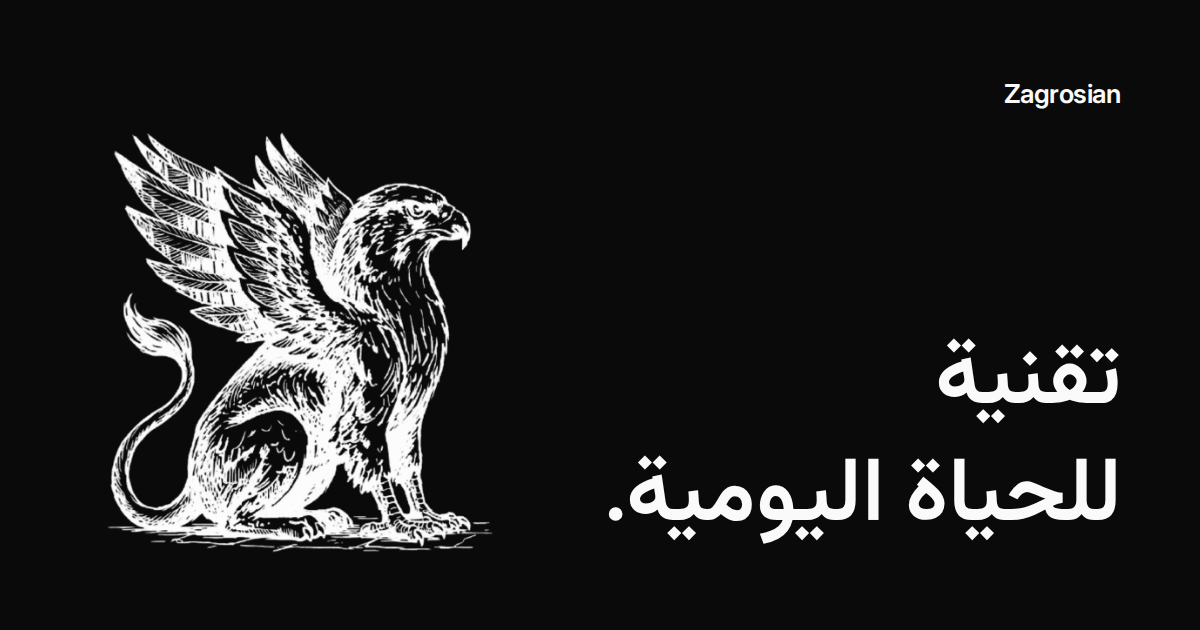
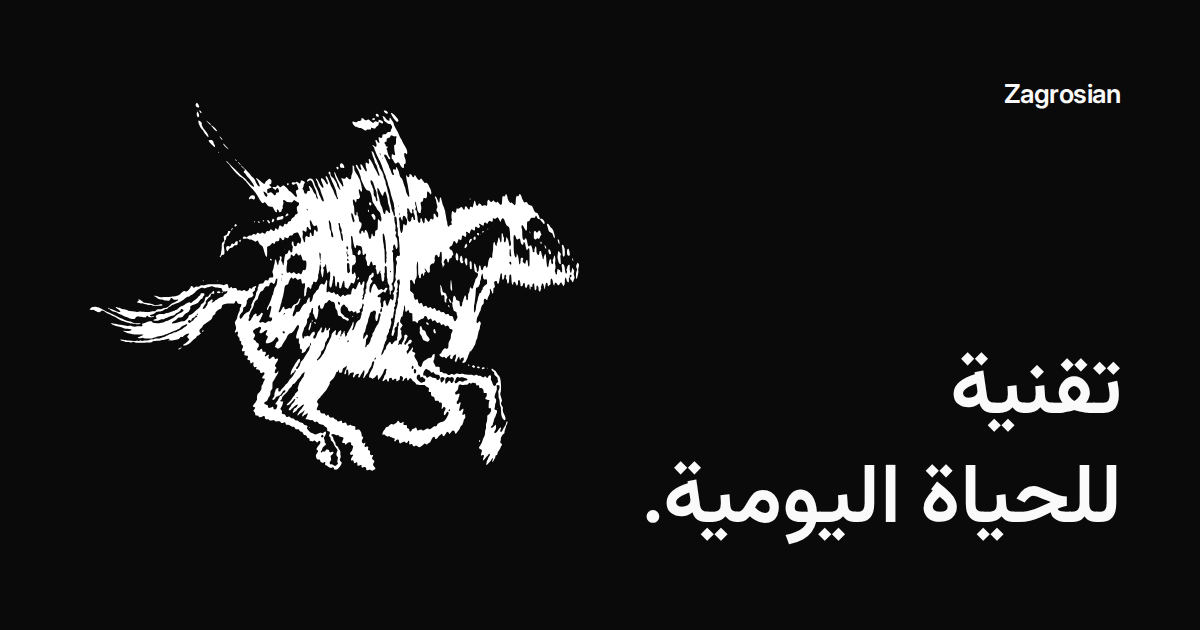
Replace the griffin with the new horseman emblem
The new Zagrosian logo (Zagros_Logo.png, a horseman on a galloping horse
drawn as a woodcut) replaces the griffin everywhere. The source moves to
src/assets/brand/zagros-logo-source.png.

- The source is 574 × 435 px, too small to stay sharp on large or
  high-density screens, so the site uses vectors traced from it:
  emblem.svg, the detailed drawing, and emblem-mark.svg, a simplified
  silhouette that stays legible at 16–48 px.
- Header: the silhouette, inlined and drawn in the text colour, so it
  follows the light and dark themes exactly.
- Hero: the detailed drawing, which now rides in on load, revealed from
  the tail forwards (still with the scroll parallax and pointer depth).
- Favicons (new favicon.svg, favicon.ico, favicon-96.png) use the
  silhouette; the app icons, the Google logo (logo.png) and the social
  images in all nine languages use the detailed drawing.
- The emblem's description for screen readers is updated in all nine
  languages; the griffin component and images are removed.

Verified: axe with no violations across 180 page checks, no overflow or
broken words from 320 to 1920 px, header fits at 12 widths in every
language, no CSP violations, Lighthouse 98 to 100.

Claude-Session: https://claude.ai/code/session_01KBBHZvrbeW3Uqd7RrncA8Y

diff --git a/src/scripts/motion.ts b/src/scripts/motion.ts
@@ -227,14 +227,14 @@ function contentsTracker(content: HTMLElement, links: HTMLAnchorElement[]): Scro
 }
 
 /* -------------------------------------------------------------------------- */
-/* Pointer depth: with a mouse, the hero griffin leans slightly towards the    */
+/* Pointer depth: with a mouse, the hero horseman leans slightly towards the  */
 /* pointer, and the Hevalo icon tilts under it with a soft highlight.          */
 /* -------------------------------------------------------------------------- */
 
 function initPointerDepth() {
   if (!window.matchMedia('(hover: hover) and (pointer: fine)').matches) return;
 
-  // The griffin follows the pointer across the whole window, eased towards it
+  // The horseman follows the pointer across the whole window, eased towards it
   // frame by frame. It uses the individual `rotate` and `translate` properties,
   // so it combines with the scroll parallax on `transform`.
   const emblem = document.querySelector<HTMLElement>('[data-depth]');

diff --git a/src/i18n/messages/ckb.ts b/src/i18n/messages/ckb.ts
@@ -50,7 +50,7 @@ export const ckb: Messages = {
     lead: 'Zagrosian کۆمپانیایەکی سەربەخۆی تەکنەلۆژییە و بارەگاکەی لە هۆڵەندایە. ئێمە بەرهەمی دیجیتاڵی بۆ بەکارهێنەران دیزاین و دروست دەکەین، کە یەکەمیان Hevalo، ئەپێکی فێربوونی زمانی کوردییە.',
     products: 'بەرهەمەکانمان',
     about: 'دەربارەی Zagrosian',
-    griffinAlt: 'گریفۆنی Zagrosian',
+    emblemAlt: 'هێمای Zagrosian: سوارێک لەسەر ئەسپێک کە ڕادەکات',
   },
   hevalo: {
     eyebrow: 'بەرهەمەکان',

diff --git a/src/i18n/messages/ar.ts b/src/i18n/messages/ar.ts
@@ -48,7 +48,7 @@ export const ar: Messages = {
     lead: 'Zagrosian شركة تقنية مستقلة مقرّها هولندا. نصمّم ونطوّر منتجات رقمية للأفراد، أولها Hevalo، تطبيق لتعلّم اللغة الكردية.',
     products: 'منتجاتنا',
     about: 'عن Zagrosian',
-    griffinAlt: 'شعار الغريفين لشركة Zagrosian',
+    emblemAlt: 'شعار Zagrosian: فارس على حصان يعدو',
   },
   hevalo: {
     eyebrow: 'المنتجات',

diff --git a/src/i18n/messages/fr.ts b/src/i18n/messages/fr.ts
@@ -48,7 +48,7 @@ export const fr: Messages = {
     lead: 'Zagrosian est une entreprise technologique indépendante basée aux Pays-Bas. Nous concevons et développons des produits grand public, à commencer par Hevalo, une application pour apprendre le kurde.',
     products: 'Nos produits',
     about: 'À propos de Zagrosian',
-    griffinAlt: 'Le griffon de Zagrosian',
+    emblemAlt: 'L’emblème de Zagrosian : un cavalier sur un cheval au galop',
   },
   hevalo: {
     eyebrow: 'Produits',

diff --git a/src/i18n/messages/es.ts b/src/i18n/messages/es.ts
@@ -47,7 +47,7 @@ export const es: Messages = {
     lead: 'Zagrosian es una empresa tecnológica independiente con sede en los Países Bajos. Diseñamos y desarrollamos productos de consumo, empezando por Hevalo, una aplicación para aprender kurdo.',
     products: 'Nuestros productos',
     about: 'Sobre Zagrosian',
-    griffinAlt: 'El emblema del grifo de Zagrosian',
+    emblemAlt: 'El emblema de Zagrosian: un jinete sobre un caballo al galope',
   },
   hevalo: {
     eyebrow: 'Productos',

diff --git a/src/i18n/messages/de.ts b/src/i18n/messages/de.ts
@@ -47,7 +47,7 @@ export const de: Messages = {
     lead: 'Zagrosian ist ein unabhängiges Technologieunternehmen mit Sitz in den Niederlanden. Wir gestalten und entwickeln Produkte für Verbraucher – den Anfang macht Hevalo, eine App zum Kurdischlernen.',
     products: 'Unsere Produkte',
     about: 'Über Zagrosian',
-    griffinAlt: 'Der Greif von Zagrosian',
+    emblemAlt: 'Das Emblem von Zagrosian: ein Reiter auf einem galoppierenden Pferd',
   },
   hevalo: {
     eyebrow: 'Produkte',

diff --git a/src/i18n/messages/tr.ts b/src/i18n/messages/tr.ts
@@ -47,7 +47,7 @@ export const tr: Messages = {
     lead: 'Zagrosian, Hollanda merkezli bağımsız bir teknoloji şirketidir. Kürtçe öğrenme uygulaması Hevalo’dan başlayarak tüketicilere yönelik ürünler tasarlıyor ve geliştiriyoruz.',
     products: 'Ürünlerimiz',
     about: 'Zagrosian hakkında',
-    griffinAlt: 'Zagrosian’ın grifonu',
+    emblemAlt: 'Zagrosian amblemi: dörtnala koşan bir atın üzerindeki süvari',
   },
   hevalo: {
     eyebrow: 'Ürünler',

diff --git a/src/i18n/messages/ku.ts b/src/i18n/messages/ku.ts
@@ -49,7 +49,7 @@ export const ku: Messages = {
     lead: 'Zagrosian şirketeke teknolojiyê ya serbixwe ye û navenda wê li Holendayê ye. Em ji bo bikarhêneran berheman disêwirînin û çêdikin; ya yekem Hevalo ye, sepaneke ji bo fêrbûna kurdî.',
     products: 'Berhemên me',
     about: 'Derbarê Zagrosian de',
-    griffinAlt: 'Grîfona Zagrosian',
+    emblemAlt: 'Nîşana Zagrosian: siwarek li ser hespekî ku dibeze',
   },
   hevalo: {
     eyebrow: 'Berhem',

diff --git a/src/i18n/messages/nl.ts b/src/i18n/messages/nl.ts
@@ -47,7 +47,7 @@ export const nl: Messages = {
     lead: 'Zagrosian is een onafhankelijk technologiebedrijf uit Nederland. We ontwerpen en bouwen producten voor consumenten, te beginnen met Hevalo: een app om Koerdisch te leren.',
     products: 'Onze producten',
     about: 'Over Zagrosian',
-    griffinAlt: 'De griffioen van Zagrosian',
+    emblemAlt: 'Het embleem van Zagrosian: een ruiter op een galopperend paard',
   },
   hevalo: {
     eyebrow: 'Producten',

diff --git a/src/i18n/messages/en.ts b/src/i18n/messages/en.ts
@@ -55,7 +55,7 @@ export const en = {
     lead: 'Zagrosian is an independent technology company based in the Netherlands. We design and build consumer products, starting with Hevalo, an app for learning Kurdish.',
     products: 'Our products',
     about: 'About Zagrosian',
-    griffinAlt: 'The Zagrosian griffin',
+    emblemAlt: 'The Zagrosian emblem: a horseman on a galloping horse',
   },
   hevalo: {
     eyebrow: 'Products',

diff --git a/README.md b/README.md
@@ -65,7 +65,8 @@ Requires Node 22.12 or later.
 public/            Favicons, logo, social images (og.png and og/<language>.png), manifest,
                    robots.txt and Cloudflare _headers
 src/
-  assets/brand/    Griffin emblem, the 21-ray sun and the Hevalo app icon (sources and sized variants)
+  assets/brand/    The emblem (source PNG, detailed and simplified SVGs), the 21-ray sun and the Hevalo
+                   app icon
   assets/fonts/    Inter subset with the Turkish and Kurmanji letters Ğ ğ İ Ş ş
   components/      Header, Footer, Hero, ProductShowcase, Motto, About, Contact, CommandMenu,
                    LanguagePicker, LanguageSuggestion, ThemeToggle, ThemeSwitch, …
@@ -85,16 +86,26 @@ src/
 
 ## Brand assets
 
-- **Griffin** (`src/assets/brand/griffin-source.png`): the emblem, used in the header, the hero, the
-  Google logo (`public/logo.png`) and the social images (`public/og.png` in English and
-  `public/og/<language>.png`, which also show the hero headline in that language; update them if the
-  headline changes). The site serves it as
-  16-colour PNGs at 96–960 px wide (`griffin-*.png`), which for black line art are smaller than WebP or
-  AVIF. To regenerate a variant:
-  `node -e "require('sharp')('src/assets/brand/griffin-source.png').resize({ width: 480 }).png({ palette: true, colours: 16, dither: 0 }).toFile('src/assets/brand/griffin-480.png')"`
+- **Emblem** (`src/assets/brand/zagros-logo-source.png`): a horseman on a galloping horse, drawn as a
+  woodcut. The source is a 574 × 435 px PNG, too small to stay sharp on large or high-density screens,
+  so the site uses vectors traced from it (with [potrace](https://potrace.sourceforge.net) at 4×, then
+  [SVGO](https://svgo.dev)), which are sharp at any size and a fraction of the weight:
+  - `emblem.svg`, the detailed drawing (ink threshold 85, specks under 3 px² removed), for large
+    sizes: the hero ([`Emblem.astro`](src/components/Emblem.astro)), the Google logo
+    (`public/logo.png`), the app icons and the social images (`public/og.png` in English and
+    `public/og/<language>.png`, which also show the hero headline in that language; update them if
+    the headline changes).
+  - `emblem-mark.svg`, a simplified silhouette (the source blurred by 7 px at 4× before tracing, at
+    threshold 170), which stays legible at 16–48 px: the header and the favicons (`favicon.svg`,
+    `favicon.ico` and `favicon-96.png`).
+
+  Both are black paths filled with `currentColor`. The header inlines the silhouette, so it takes the
+  text colour of the current theme; the hero shows the drawing as an image, turned white in dark mode
+  by `--art-filter`. If the artwork changes, trace it again with the same settings and regenerate the
+  icons and social images.
 - **Sun** (`src/assets/brand/sun-black-source.png` and `sun-white-source.png`): the 21-ray sun. The
   Kurdish motto section uses the black version on light backgrounds and the white version in dark mode
-  (`sun-*-64.png`, cropped to the sun). The favicon and app icons show the white sun on a black tile.
+  (`sun-*-64.png`, cropped to the sun).
 - **Hevalo icon** (`src/assets/brand/hevalo-source.png`): Hevalo's app icon, shown above the product
   name and in the hero's *coming soon* notice. The source's corners are semi-transparent white; the
   served versions (`hevalo-96/192/288.webp`) have them made fully transparent, so the icon sits cleanly
@@ -142,8 +153,8 @@ choice is saved in the browser (`localStorage`) and applies to every open tab at
 Animation is handled by [`src/scripts/motion.ts`](src/scripts/motion.ts) with no dependencies, using
 the Web Animations API, IntersectionObserver and a single requestAnimationFrame loop:
 
-- **Hero:** the headline rises line by line from behind masks on load; the griffin fades in and
-  drifts slightly slower than the page (`data-parallax`).
+- **Hero:** the headline rises line by line from behind masks on load; the horseman rides in,
+  revealed from the tail forwards, and drifts slightly slower than the page (`data-parallax`).
 - **Headings:** [`SplitText`](src/components/SplitText.astro) splits a heading into words at build
   time. `effect="rise"` makes the words rise one after another as it enters the viewport;
   `effect="highlight"` brightens them as the reader scrolls past (the About statement).
@@ -152,7 +163,7 @@ the Web Animations API, IntersectionObserver and a single requestAnimationFrame 
 - **Motto:** the sun turns slowly as the section scrolls past (`data-spin`), and the Kurdish
   sentence rises word by word.
 - **Footer:** the Zagrosian wordmark rises out of its baseline as the footer appears (`data-rise`).
-- **Pointer depth:** with a mouse, the hero griffin leans slightly towards the pointer and the Hevalo
+- **Pointer depth:** with a mouse, the hero horseman leans slightly towards the pointer and the Hevalo
   icon tilts under it with a soft highlight. Touch screens and *reduce motion* get none of this.
 - **Legal pages:** a reading-progress bar and the current section highlighted in the contents.
 
